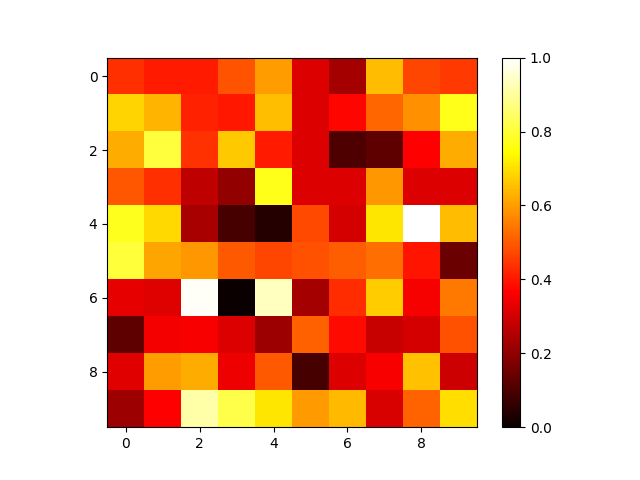
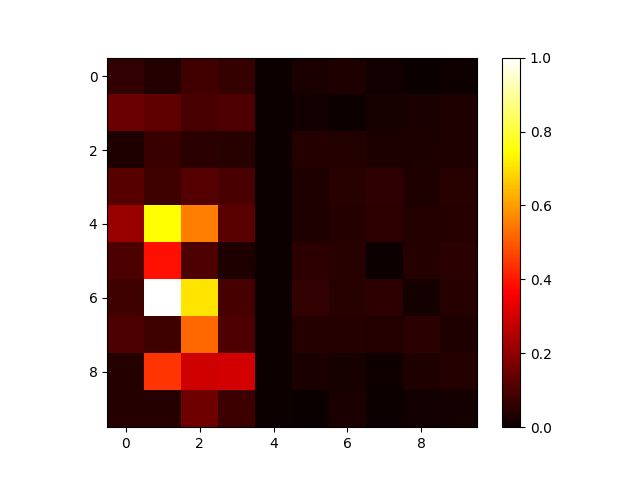
feat: gui

diff --git a/gui/src/components/configuration_frame.py b/gui/src/components/configuration_frame.py
@@ -1,3 +1,5 @@
+import logging
+
 import customtkinter as ctk
 
 from gui.src.utils import EnvHandler
@@ -26,11 +28,16 @@ class ConfigurationFrame(ctk.CTkFrame):
             self, env_handler
         )
         self.env_matrix_configuration_frame.grid(
-            row=2, column=0, padx=10, pady=10, sticky="nse"
+            row=1, column=0, padx=10, pady=10, sticky="nse"
         )
 
-        self.button = ctk.CTkButton(self, text="Update", command=self.update)
-        self.button.grid(row=3, column=0, padx=10, pady=10, sticky="nswe")
+        self.model_chooser_frame = ModelChooserFrame(self)
+        self.model_chooser_frame.grid(row=2, column=0, padx=10, pady=10, sticky="nswe")
+
+        self.shap_configuration_frame = ShapConfigurationFrame(self)
+        self.shap_configuration_frame.grid(
+            row=3, column=0, padx=10, pady=10, sticky="nswe"
+        )
 
         self.checkbox = ctk.CTkCheckBox(
             self,
@@ -40,9 +47,14 @@ class ConfigurationFrame(ctk.CTkFrame):
         )
         self.checkbox.grid(row=4, column=0, padx=10, pady=10, sticky="nswe")
 
+        self.button = ctk.CTkButton(self, text="Update", command=self.update)
+        self.button.grid(row=5, column=0, padx=10, pady=10, sticky="nswe")
+
     def update(self):
         self.update_result_callback(
             self.env_matrix_configuration_frame.get_env_matrix(),
+            *self.model_chooser_frame.get_model(),
+            self.shap_configuration_frame.get_shap_samples(),
             show_q_values=self.checkbox.get(),
         )
         self.env_viewer_frame.update_image()
@@ -51,6 +63,54 @@ class ConfigurationFrame(ctk.CTkFrame):
         self.update_image_callback(
             show_q_values=self.checkbox.get(),
         )
+
+
+class ShapConfigurationFrame(ctk.CTkFrame):
+    def __init__(
+        self,
+        master: ctk.CTkFrame,
+    ):
+        super().__init__(master)
+        self.grid_columnconfigure(0, weight=1)
+        self.grid_rowconfigure(0, weight=1)
+        self.label = ctk.CTkLabel(self, text="SHAP Samples")
+        self.shap_entry = ctk.CTkEntry(self, placeholder_text="10")
+        self.shap_entry.grid(row=0, column=0, padx=10, pady=10, sticky="nswe")
+
+    def get_shap_samples(self) -> int:
+        if self.shap_entry.get() == "":
+            value = self.shap_entry._placeholder_text
+            if value == "" or value is None:
+                logging.error("SHAP Samples is empty")
+                return 10
+            try:
+                return int(value)
+            except ValueError:
+                logging.error("SHAP Samples is not an integer")
+        return int(self.shap_entry.get())
+
+
+class ModelChooserFrame(ctk.CTkFrame):
+    def __init__(
+        self,
+        master: ctk.CTkFrame,
+    ):
+        super().__init__(master)
+        self.grid_columnconfigure(0, weight=1)
+        self.grid_rowconfigure(0, weight=1)
+
+        self.model_entry = ctk.CTkEntry(
+            self, placeholder_text="model artifact", width=40
+        )
+        self.model_entry.grid(row=0, column=0, padx=10, pady=10, sticky="nswe")
+
+        self.x_entry = ctk.CTkEntry(self, placeholder_text="v0", width=40)
+        self.x_entry.grid(row=0, column=1, sticky="nswe", padx=10, pady=10)
+        self.y_entry = ctk.CTkEntry(self, placeholder_text="v1", width=40)
+        self.y_entry.grid(row=0, column=2, sticky="nswe", padx=10, pady=10)
+
+    def get_model(self) -> tuple[str, list[str]]:
+        return self.model_entry.get(), [self.x_entry.get(), self.y_entry.get()]
 
 
 class EnvViewerFrame(ctk.CTkFrame):

diff --git a/gui/src/utils/model_handler.py b/gui/src/utils/model_handler.py
@@ -1,3 +1,5 @@
+import logging
+
 import gymnasium as gym
 import matplotlib.pyplot as plt
 import numpy as np
@@ -12,29 +14,67 @@ from rl.src.managers import WandBConfig
 
 
 class ModelHandler:
-    def __init__(self, model_artifact: str, version_numbers: list[str]):
+    def __init__(
+        self, model_artifact: str, version_numbers: list[str], shap_samples: int
+    ):
         self.num_agents = 2
 
         env = gym.make("TagEnv-v0", render_mode="rgb_array")
-        model_name = "tag-v0"
+        self.model_name = "tag-v0"
+        self.model_artifact = model_artifact
+        self.version_numbers = version_numbers
         self.env = MultiAgentEnv(env)
-        wandb_config = WandBConfig(project="gui")
+        self.wandb_config = WandBConfig(project="gui")
+        self.load_dqn(
+            self.wandb_config, self.model_name, model_artifact, version_numbers
+        )
+        self.shap_samples = shap_samples
+        self.load_model(shap_samples)
+
+    def load_dqn(
+        self,
+        wandb_config: WandBConfig,
+        model_name: str,
+        model_artifact: str,
+        version_numbers: list[str],
+    ):
         self.dqn = MultiAgentDQN(
             self.env,
             self.num_agents,
             "dqnpolicy",
-            wandb_active=False,
+            wandb_active=True,
             wandb_config=wandb_config,
             model_name=model_name,
             save_every_n_episodes=100,
             save_model=False,
             load_model=True,
             gif=False,
-            run_path="eirikreiestad-ntnu/tag-v0-idun",
+            run_path="eirikreiestad-ntnu/tag-v0-eirre",
             model_artifact=model_artifact,
             version_numbers=version_numbers,
         )
-        self.load_model()
+
+    def update_model(
+        self,
+        model_artifact: str,
+        version_numbers: list[str],
+    ):
+        if (
+            self.model_artifact != model_artifact
+            or self.version_numbers != version_numbers
+        ) and model_artifact != "":
+            self.model_artifact = model_artifact
+            self.version_numbers = version_numbers
+            logging.info("Loading model")
+            self.load_dqn(
+                self.wandb_config, self.model_name, model_artifact, version_numbers
+            )
+
+    def update_shap(self, samples: int):
+        if self.shap_samples != samples:
+            self.shap_samples = samples
+            logging.info("Loading SHAP")
+            self.load_model(samples)
 
     def load_model(self, samples=10):
         self.shap = Shap(self.env, self.dqn, samples=samples)

diff --git a/gui/src/app.py b/gui/src/app.py
@@ -19,7 +19,7 @@ class App(customtkinter.CTk):
         self.env_handler = EnvHandler(10, 10)
         self.env_handler.generate()
 
-        self.model_handler = ModelHandler("model_3000", ["v0", "v1"])
+        self.model_handler = ModelHandler("model_2450", ["v20", "v21"], shap_samples=10)
         state = np.expand_dims(np.array(self.env_handler.env), axis=0)
         self.model_handler.generate_shap(state)
         self.result_frame = ResultFrame(self)
@@ -35,12 +35,19 @@ class App(customtkinter.CTk):
     def update_result(
         self,
         env: list[list] | None,
+        model_artifact: str,
+        model_version_numbers: list[str],
+        shap_samples: int,
         show_q_values: bool,
     ):
         self._update_env(env)
         state = np.expand_dims(np.array(self.env_handler.env), axis=0)
+
+        if show_q_values:
+            self.model_handler.update_model(model_artifact, model_version_numbers)
+            self.model_handler.generate_q_values(state)
+        self.model_handler.update_shap(shap_samples)
         self.model_handler.generate_shap(state)
-        self.model_handler.generate_q_values(state)
         self.result_frame.update_result(q_values=show_q_values)
 
     def update_image(

diff --git a/gui/src/components/result_frame.py b/gui/src/components/result_frame.py
@@ -42,6 +42,7 @@ class ResultViewerFrame(ctk.CTkFrame):
             self.q_values_viewer_frame.update_image()
         else:
             self.q_values_viewer_frame.grid_forget()
+        self.shap_viewer_frame.update_image()
 
 
 class DoubleViewerFrame(ctk.CTkFrame):
@@ -64,4 +65,4 @@ class DoubleViewerFrame(ctk.CTkFrame):
 
     def update_image(self):
         self.image_frame_0.update_image(self.image_0)
-        self.image_frame_1.update_image(self.image_0)
+        self.image_frame_1.update_image(self.image_1)

diff --git a/methods/src/shap/single_agent_shap.py b/methods/src/shap/single_agent_shap.py
@@ -78,6 +78,7 @@ class SingleAgentShap(SingleAgentBase):
 
         if not show:
             plt.figure()
+            plt.close()
         plot = None
         if self.shap_type == ShapType.BEESWARM:
             mean_shap_values = shap_values.mean(axis=2)
